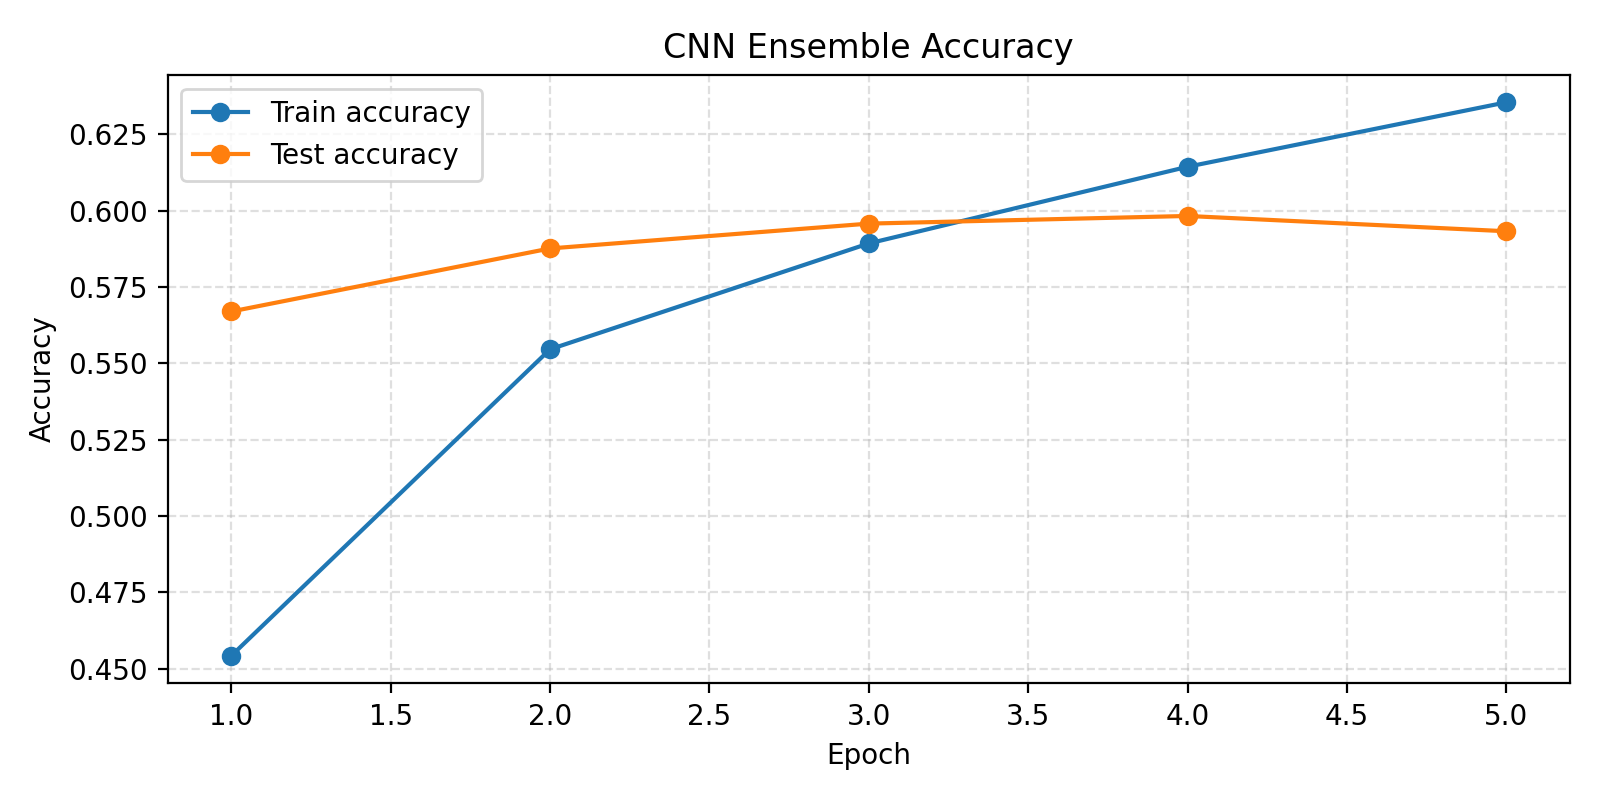
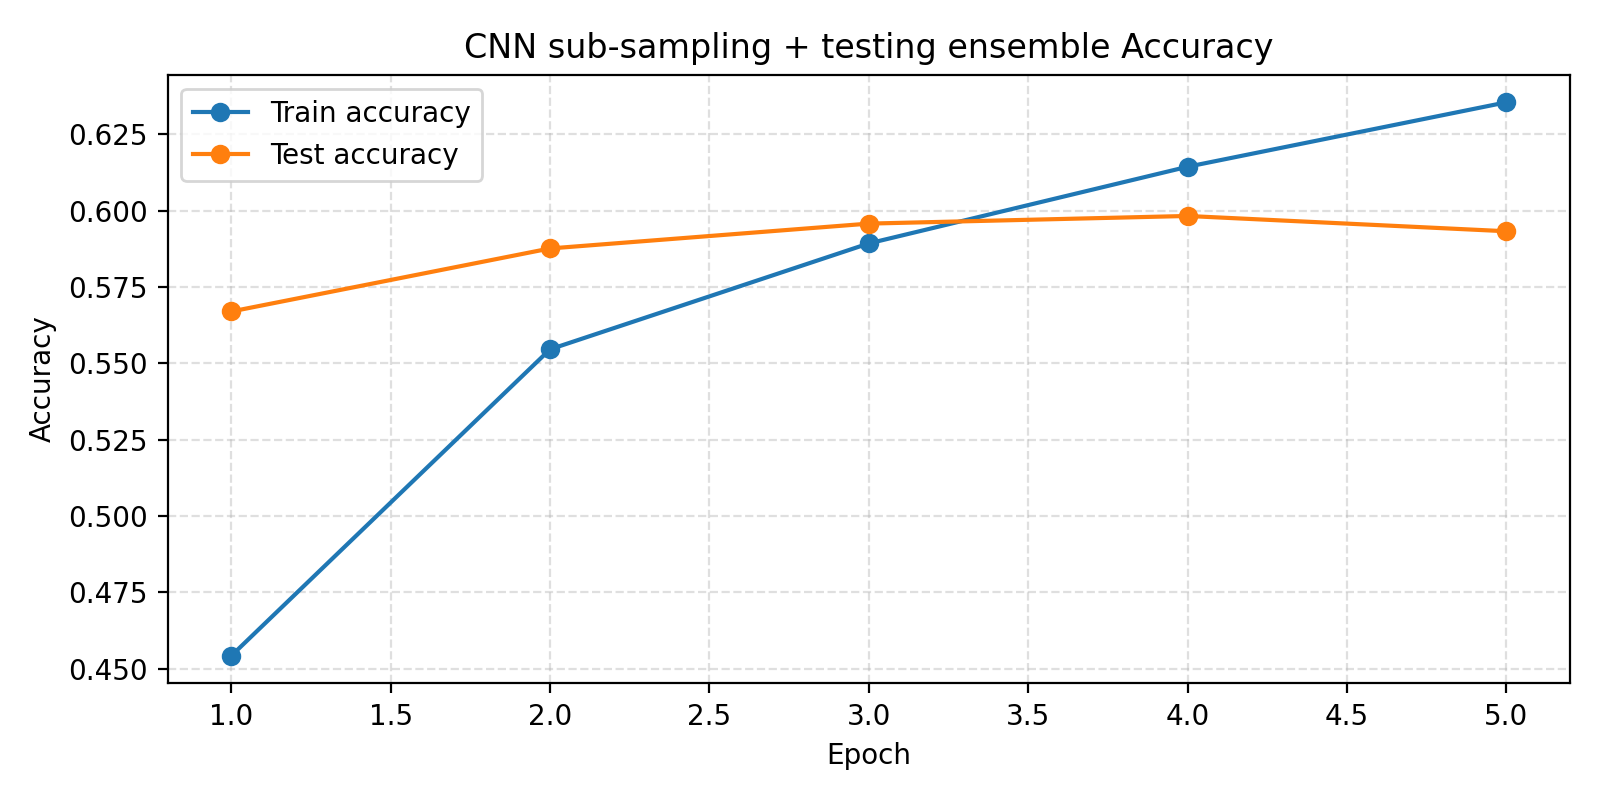
visuals

Changed region(s): [[0.2812, 0.0312, 0.7812, 0.0938]]

diff --git a/scripts/utils/plot_cnn_results.py b/scripts/utils/plot_cnn_results.py
@@ -89,7 +89,7 @@ def main() -> None:
         ], # type: ignore
         xlabel="Epoch",
         ylabel="Accuracy",
-        title="CNN Ensemble Accuracy",
+        title="CNN sub-sampling + testing ensemble Accuracy",
         output_path=args.output_dir / "CNN_exp_ensemble_accuracy.png",
     )
 
@@ -102,7 +102,7 @@ def main() -> None:
         ], # type: ignore
         xlabel="Epoch",
         ylabel="Cross-entropy loss",
-        title="CNN Ensemble Loss",
+        title="CNN sub-sampling Loss",
         output_path=args.output_dir / "CNN_exp_ensemble_loss.png",
     )
 
@@ -117,7 +117,7 @@ def main() -> None:
         ],
         xlabel="Batch step",
         ylabel="Cross-entropy loss",
-        title="CNN Ensemble Batch Loss (train)",
+        title="CNN sub-sampling Batch Loss (train)",
         output_path=args.output_dir / "CNN_exp_ensemble_train_batch_loss.png",
     )
 

diff --git a/README.md b/README.md
@@ -33,9 +33,9 @@ The objective of this project is to do genre classification on 30-second music a
 ## Preprocessing
 - Audios from the FMA dataset do not all have an exact 30-second length, so I padded/truncated every sample to make sure all have the same shape. The idea is not to work on the audio waveform of input samples itself (variation of air pressure over time) (see figure [Waveform]), which is uninterpretable by humans, but rather on their mel-spectrogram. More specifically we work on log-dB mel-spectrograms that are closer to human interpretability of sounds: humans do not hear the high frequencies as well as the lower ones, and the logarithmic scale takes this into account in its 2D representation of the audio. Mel-spectrograms are a 2D representation of an audio clip showing each frequency’s energy over time. To compute the log-mel spectrogram of an audio clip we compute a short-time Fourier transform with n_fft=2048 and hop_length=512. For each of these FFT windows we evaluate the energy of the frequencies and project them into 128 mel bins corresponding to a logarithmic scale on the frequency axis. That makes a 2D tensor representing the audio clip (see figures [30s mel] and [3s grid]).
 
-![Waveform](sources/visualisation/132425_waveform.png)
-![30s mel](sources/visualisation/132425_mel_30s.png)
-![3s grid](sources/visualisation/132425_mel_3s_grid.png)
+![Waveform](sources/visualisation/131425_waveform.png)
+![30s mel](sources/visualisation/131425_mel_30s.png)
+![3s grid](sources/visualisation/131425_mel_3s_grid.png)
 
 
 ## Model architecture
